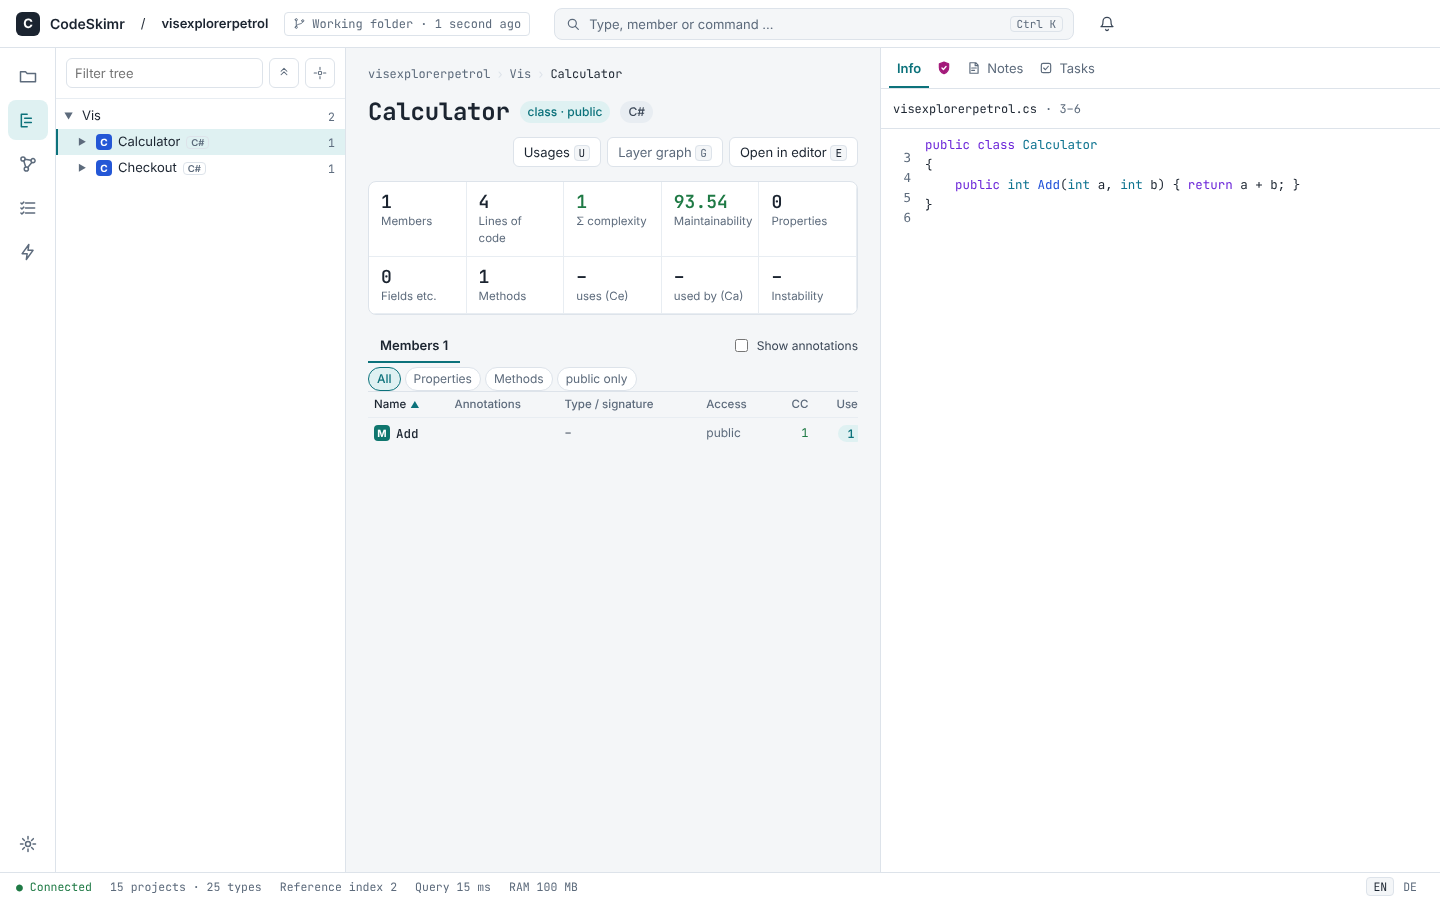
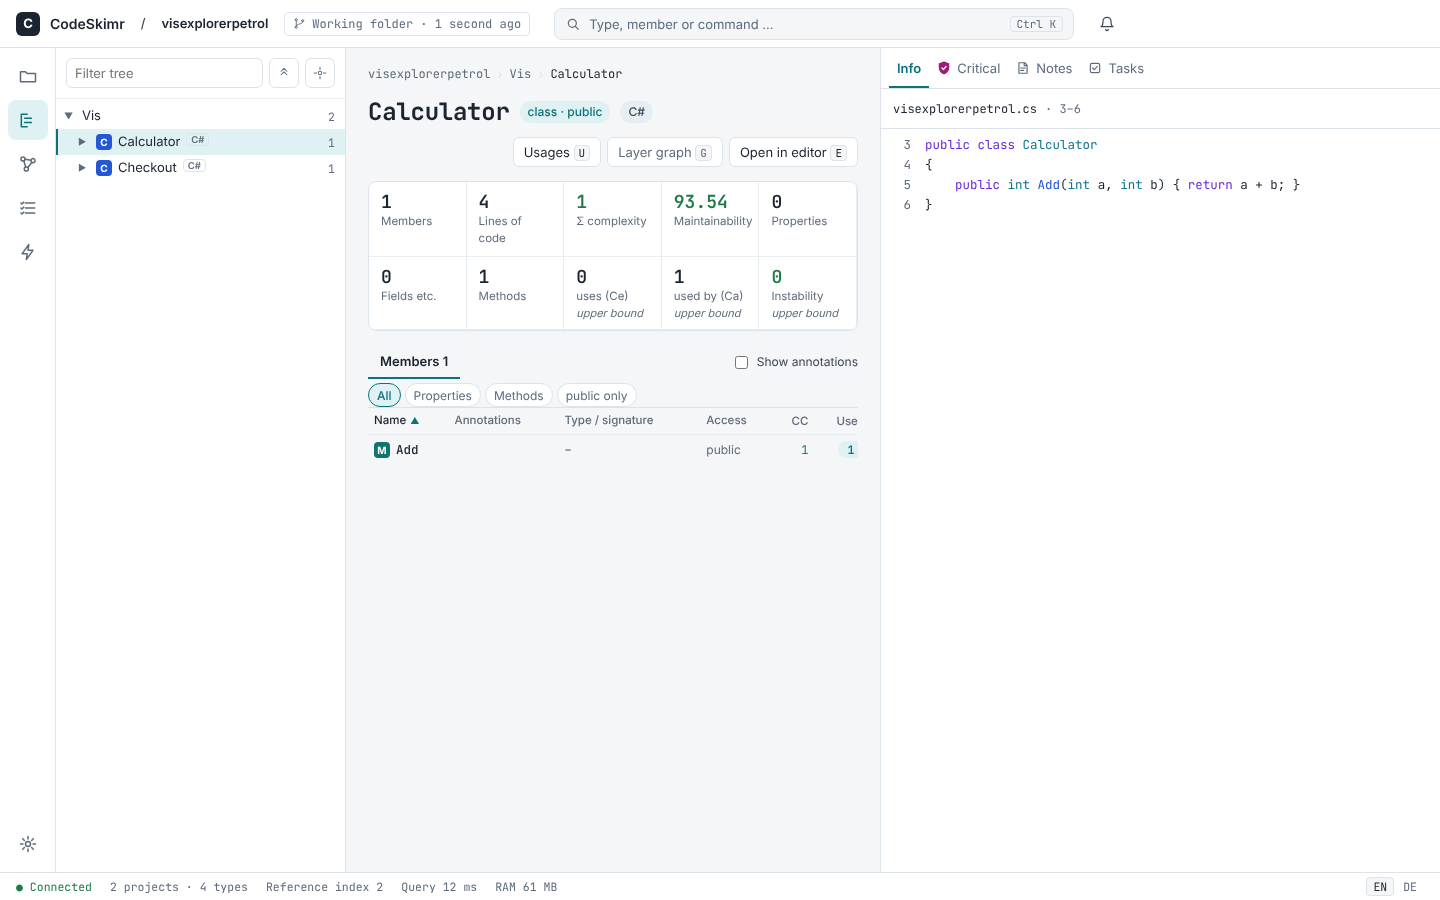
feat: coupling tiles say upper bound until level 2 checked the language (#582)
## Was ändert sich und warum?

Closes #573. ADR 0037 ist angenommen: Die Kopplungswerte zählen jeden
Verweis, auch die nur „wahrscheinlichen“ von Stufe 1 (bei CodeSkimr
selbst 89 %). Solange Stufe 2 die Sprache eines Typs nicht geprüft hat,
ist der Wert deshalb eine Obergrenze.

Im Explorer tragen die drei Kacheln „nutzt (Ce)“, „genutzt von (Ca)“ und
„Instabilität“ jetzt den Hinweis „Obergrenze“ (englisch „upper bound“)
unter der Beschriftung, und der Tooltip erklärt den Grund. Der Hinweis
verschwindet, wenn der letzte Scan die Sprache des Typs auf Stufe 2
geprüft hat (Ergebnis „checked“). Die Zahl selbst ändert sich nicht. Bis
die Projektliste gelesen ist, steht kein Hinweis da, damit nichts
flackert.

## So probierst du es aus

Ein Projekt nur auf Stufe 1 scannen, im Explorer einen Typ öffnen: Die
drei Kacheln der zweiten Reihe zeigen „Obergrenze“. Nach einem Scan mit
bestätigter Stufe 2 für diese Sprache ist der Hinweis weg.

## Screenshots (bei UI-Änderungen, mit Mock-Vergleich)

Neu erzeugt in allen drei Themes, der Vergleich mit dem Mock (`Explorer
(2)`) läuft in allen dreien grün:
`docs/screenshots/visual/explorer-hell.png`, `explorer-petrol.png`,
`explorer-dunkel.png`. Abweichung vom Mock: Die zweite Kachelreihe ist
durch die Hinweiszeile etwas höher; das ist gewollt (ADR 0037).

## Neue Fehlercodes

Keine.

## Neue Abhängigkeiten (mit einem Satz Begründung)

Keine.

## Benchmark-Delta

Keins betroffen (nur Frontend, keine neue Abfrage: der Hinweis liest
[…]

diff --git a/web/src/features/explorer/metrics.ts b/web/src/features/explorer/metrics.ts
@@ -1,5 +1,6 @@
 import { t } from "../../shared/i18n/i18n";
-import { MISSING, TILE_SOURCE, TILES } from "./consts";
+import { I18N_KEYS } from "../../shared/i18n/keys";
+import { BOUND_TILES, MISSING, TILE_SOURCE, TILES } from "./consts";
 import { metricValue } from "./format";
 import type { SymbolInfo, Thresholds } from "./types";
 
@@ -11,6 +12,9 @@ export interface Tile {
   value: string;
   /** `good`, `medium` or `poor` for metrics that have thresholds. */
   rating: string | null;
+  /** A short note under the label, "upper bound" for a coupling count that level 2 has not
+   * confirmed (ADR 0037); `null` for a tile without a note. */
+  hint: string | null;
 }
 
 const LIMITED: readonly string[] = ["cc", "mi", "instability"];
@@ -49,8 +53,14 @@ function kindCount(info: SymbolInfo, kinds: readonly string[]): number {
 }
 
 /** The ten tiles of a symbol (blueprint B.2): member count, the stored metrics and the counts of
- * the member kinds. A metric the scan did not measure has no value. */
-export function tilesOf(info: SymbolInfo, thresholds: Thresholds | null, language: string): Tile[] {
+ * the member kinds. A metric the scan did not measure has no value. With `upperBound` the coupling
+ * tiles carry the note "upper bound" (ADR 0037). */
+export function tilesOf(
+  info: SymbolInfo,
+  thresholds: Thresholds | null,
+  language: string,
+  upperBound = false,
+): Tile[] {
   return TILES.map((tile) => {
     const stored = info.metrics.find((row) => row.kind === tile.id);
     let value: number | undefined = stored?.value;
@@ -59,12 +69,15 @@ export function tilesOf(info: SymbolInfo, thresholds: Thresholds | null, languag
     } else if (tile.source === TILE_SOURCE.kinds) {
       value = kindCount(info, tile.kinds);
     }
+    const bound = upperBound && BOUND_TILES.includes(tile.id);
+    const tip = tipFor(tile.id, tile.tip, thresholds);
     return {
       id: tile.id,
       label: t(tile.label),
-      tip: tipFor(tile.id, tile.tip, thresholds),
+      tip: bound ? `${tip} ${t(I18N_KEYS.EXPLORER_METRIC_BOUND_TIP)}` : tip,
       value: metricValue(value, language),
       rating: stored?.rating ?? null,
+      hint: bound ? t(I18N_KEYS.EXPLORER_METRIC_BOUND) : null,
     };
   });
 }

diff --git a/web/src/features/explorer/ExplorerScreen.test.tsx b/web/src/features/explorer/ExplorerScreen.test.tsx
@@ -6,6 +6,8 @@ import { clearUsages } from "../usages/usages";
 import { setLanguage } from "../../shared/i18n/i18n";
 import { openProject } from "../../shared/project/active";
 import { answer, fetchMock, serve, useServerSession } from "../../tests/commands";
+import { projectRow } from "../../tests/projectRow";
+import { refreshProjects } from "../projects/projects";
 import { openOrder, ORDER, OUTLINE } from "../../tests/explorer";
 import { currentMember, forgetExplorer, setMemberSort, treeScroll } from "./explorer";
 import { INITIAL_SORT } from "./memberSort";
@@ -39,6 +41,41 @@ describe("ExplorerScreen", () => {
     expect(await screen.findByRole("heading", { name: "Order" })).toBeTruthy();
     expect(within(screen.getByRole("tree")).getByTitle("C#")).toBeTruthy();
     expect(screen.getAllByText("C#").length).toBeGreaterThan(1);
+  });
+
+  it("marks the coupling tiles as an upper bound until level 2 confirmed the language", async () => {
+    openProject(1);
+    serve({
+      "explorer.outline": () => answer(OUTLINE),
+      "explorer.symbol": () => answer(ORDER),
+      "projects.list": () => answer([projectRow({ id: 1 })]),
+    });
+    await refreshProjects();
+    render(() => <ExplorerScreen />);
+    await openOrder();
+    expect(await screen.findAllByText("upper bound")).toHaveLength(3);
+  });
+
+  it("leaves the coupling tiles without a note where level 2 checked the language", async () => {
+    openProject(1);
+    const report = {
+      last_scan: { at: 1, level: "2" as const, origin: "terminal" as const },
+      level2: {
+        at: 1,
+        origin: "terminal" as const,
+        languages: [{ language: "csharp", outcome: "checked" as const, files: 3, stale: 0 }],
+      },
+    };
+    serve({
+      "explorer.outline": () => answer(OUTLINE),
+      "explorer.symbol": () => answer(ORDER),
+      "projects.list": () => answer([projectRow({ id: 1, report })]),
+    });
+    await refreshProjects();
+    render(() => <ExplorerScreen />);
+    await openOrder();
+    await screen.findByText("Fields etc.");
+    expect(screen.queryByText("upper bound")).toBeNull();
   });
 
   it("shows the structure, opens a type and shows its metrics and members", async () => {

diff --git a/web/src/features/explorer/MetricStrip.tsx b/web/src/features/explorer/MetricStrip.tsx
@@ -1,12 +1,27 @@
+import { onMount } from "solid-js";
 import { currentLanguage } from "../../shared/i18n/i18n";
+import { activeProject } from "../../shared/project/active";
+import { projects, projectsLoaded, refreshProjects } from "../projects/projects";
 import { tilesOf } from "./metrics";
 import { TileGrid } from "./TileGrid";
 import type { SymbolInfo, Thresholds } from "./types";
+import { isUpperBound } from "./upperBound";
 import styles from "./MetricStrip.module.css";
 
 /** The grid of ten metrics of the selected symbol (mock 2); the colour follows the thresholds of
- * the configuration, the number says the same, so colour is not the only carrier. */
+ * the configuration, the number says the same, so colour is not the only carrier. The coupling
+ * tiles say "upper bound" while level 2 has not confirmed the language of the symbol (ADR 0037);
+ * until the project list is read they say nothing. */
 export function MetricStrip(props: { info: SymbolInfo; thresholds: Thresholds | null }) {
-  const tiles = () => tilesOf(props.info, props.thresholds, currentLanguage());
+  onMount(() => {
+    if (!projectsLoaded()) {
+      void refreshProjects();
+    }
+  });
+  const upperBound = () => {
+    const row = projects().find((entry) => entry.id === activeProject());
+    return projectsLoaded() && isUpperBound(row?.report, props.info.language);
+  };
+  const tiles = () => tilesOf(props.info, props.thresholds, currentLanguage(), upperBound());
   return <TileGrid tiles={tiles()} classes={styles} />;
 }

diff --git a/web/src/features/explorer/upperBound.test.ts b/web/src/features/explorer/upperBound.test.ts
@@ -1,0 +1,28 @@
+import { describe, expect, it } from "vitest";
+import type { ScanReport } from "../../shared/project/report";
+import { isUpperBound } from "./upperBound";
+
+function report(outcome: "checked" | "skipped" | "failed"): ScanReport {
+  return {
+    last_scan: { at: 1, level: "2", origin: "terminal" },
+    level2: { at: 1, origin: "terminal", languages: [{ language: "rust", outcome }] },
+  };
+}
+
+describe("isUpperBound", () => {
+  it("is false only where level 2 checked the language", () => {
+    expect(isUpperBound(report("checked"), "rust")).toBe(false);
+  });
+
+  it("is true for a skipped or failed language, another language and a missing second pass", () => {
+    expect(isUpperBound(report("skipped"), "rust")).toBe(true);
+    expect(isUpperBound(report("failed"), "rust")).toBe(true);
+    expect(isUpperBound(report("checked"), "python")).toBe(true);
+    expect(isUpperBound({ ...report("checked"), level2: null }, "rust")).toBe(true);
+  });
+
+  it("is true without a stored report", () => {
+    expect(isUpperBound(null, "rust")).toBe(true);
+    expect(isUpperBound(undefined, "rust")).toBe(true);
+  });
+});

diff --git a/web/src/features/explorer/metrics.test.ts b/web/src/features/explorer/metrics.test.ts
@@ -51,6 +51,25 @@ describe("tilesOf", () => {
   });
 });
 
+describe("tilesOf with an upper bound", () => {
+  it("puts the note on the three coupling tiles and on no other", () => {
+    const noted = tilesOf(INFO, LIMITS, "en", true).filter((tile) => tile.hint !== null);
+    expect(noted.map((tile) => tile.id)).toEqual(["ce", "ca", "instability"]);
+    expect(noted[0]?.hint).toBe("upper bound");
+    expect(noted[0]?.tip).toMatch(/upper bound/);
+  });
+
+  it("says nothing when level 2 confirmed the language", () => {
+    expect(tilesOf(INFO, LIMITS, "en").every((tile) => tile.hint === null)).toBe(true);
+  });
+
+  it("speaks German in the German interface", () => {
+    setLanguage("de");
+    const ce = tilesOf(INFO, LIMITS, "de", true).find((tile) => tile.id === "ce");
+    expect(ce?.hint).toBe("Obergrenze");
+  });
+});
+
 describe("tipFor", () => {
   it("names the limits only when the thresholds are known", () => {
     expect(tipFor("cc", I18N_KEYS.EXPLORER_METRIC_CC_TIP, LIMITS)).toMatch(/5.*10/);

diff --git a/web/src/features/explorer/upperBound.ts b/web/src/features/explorer/upperBound.ts
@@ -1,0 +1,9 @@
+import { OUTCOME, type ScanReport } from "../../shared/project/report";
+
+/** Whether the coupling counts of a symbol are only an upper bound (ADR 0037): level 1 counts
+ * every reference, also the probable ones, so a count is firm only where level 2 checked the
+ * language of the symbol in the newest scan. A project without a stored report is not confirmed. */
+export function isUpperBound(report: ScanReport | null | undefined, language: string): boolean {
+  const line = report?.level2?.languages.find((entry) => entry.language === language);
+  return line?.outcome !== OUTCOME.checked;
+}

diff --git a/web/src/features/explorer/TileGrid.tsx b/web/src/features/explorer/TileGrid.tsx
@@ -1,4 +1,4 @@
-import { For } from "solid-js";
+import { For, Show } from "solid-js";
 import { cx } from "../../shared/ui/cx";
 import type { Tile } from "./metrics";
 import { ratingClass } from "./ratingClass";
@@ -18,6 +18,9 @@ export function TileGrid(props: { tiles: Tile[]; classes: TileClasses }) {
               {tile.value}
             </div>
             <div class={props.classes.label}>{tile.label}</div>
+            <Show when={tile.hint}>
+              <div class={props.classes.hint}>{tile.hint}</div>
+            </Show>
           </div>
         )}
       </For>

diff --git a/web/src/shared/i18n/keys.ts b/web/src/shared/i18n/keys.ts
@@ -413,6 +413,8 @@ export const I18N_KEYS = {
   EXPLORER_METRIC_CA_TIP: "explorer-metric-ca-tip",
   EXPLORER_METRIC_INSTABILITY: "explorer-metric-instability",
   EXPLORER_METRIC_INSTABILITY_TIP: "explorer-metric-instability-tip",
+  EXPLORER_METRIC_BOUND: "explorer-metric-bound",
+  EXPLORER_METRIC_BOUND_TIP: "explorer-metric-bound-tip",
   EXPLORER_GROUP_TYPES: "explorer-group-types",
   EXPLORER_GROUP_ALIASES: "explorer-group-aliases",
   EXPLORER_LOADING: "explorer-loading",

diff --git a/web/src/features/explorer/consts.ts b/web/src/features/explorer/consts.ts
@@ -245,6 +245,10 @@ export const TILES = [
   },
 ] as const;
 
+/** The tiles of the coupling counts (ADR 0037); while level 2 has not confirmed the language of the
+ * symbol they say "upper bound". */
+export const BOUND_TILES: readonly string[] = ["ce", "ca", "instability"];
+
 /** Decimals of a metric value with a fraction. */
 export const METRIC_DECIMALS = 2;
 /** Shown for a missing value. */

diff --git a/web/src/features/explorer/MetricStrip.module.css b/web/src/features/explorer/MetricStrip.module.css
@@ -24,6 +24,12 @@
     color: var(--muted);
 }
 
+.hint {
+    font-size: 11px;
+    color: var(--muted);
+    font-style: italic;
+}
+
 .good {
     color: var(--good);
 }

diff --git a/docs/ui.md b/docs/ui.md
@@ -47,7 +47,7 @@ The screen shows the active project (`shared/project/active.ts`) with two comman
 - Keys: Up and Down move the cursor, Right opens (or goes to the first child), Left closes (or goes to the parent), Home and End jump, Enter and Space select or toggle, `Ctrl+Left` closes everything, `Ctrl+.` shows the selection.
 - Tree: the row "(no layer)" only shows when the project has layers and some types belong to none; a project without any layer shows its namespaces at the top.
 - Language (issue "language of an object"): `explorer.outline` gives every type a `language` (id of the language pack of the declaring file) and `explorer.symbol` gives the same for the shown symbol. The tree shows a short name after every type row (`LANGUAGE_SHORT` in `web/src/features/explorer/consts.ts`, the tooltip has the full name from `languageName`), the details show the language name as a second label next to the kind. It is always shown, also in a project with one language. A nested type takes the language of the type that holds it.
-- Details: breadcrumb, name with kind and visibility, documentation, ten metric tiles, member table with the chips All, Properties, Methods and "public only". The colour of a metric and of the complexity of a member comes from the thresholds in `config/default.toml` (`metrics.*`), which `explorer.outline` delivers; the number is always shown too, and the tooltip of a column or tile names the limits. A failure of the symbol keeps the tree.
+- Details: breadcrumb, name with kind and visibility, documentation, ten metric tiles, member table with the chips All, Properties, Methods and "public only". The colour of a metric and of the complexity of a member comes from the thresholds in `config/default.toml` (`metrics.*`), which `explorer.outline` delivers; the number is always shown too, and the tooltip of a column or tile names the limits. The tiles of the coupling counts (`uses (Ce)`, `used by (Ca)`, instability) carry the note "upper bound" ("Obergrenze") while the newest scan did not check the language of the symbol with level 2 (ADR 0037): level 1 counts every reference, also the probable ones. The note comes from the `report` of `projects.list` and is absent until that list is read. A failure of the symbol keeps the tree.
 - Source column (WP-45b): the right column shows file, position and code of the selected member, or of the selected type if no member is picked. `explorer.source` reads the lines of the declaration from the project folder as it is now (not from the scan), so a file edited since the scan can show shifted lines; the next scan fixes that. Only a project that is a folder on this machine has source; a Git project says so. A file that is gone gives the registered failure `SRC-201`, a file over 4 MiB `SRC-501`, a declaration over 400 lines is cut with a note. The path is resolved against the project folder and anything that lies outside it, also through a link, is refused. Line numbers and code are two plain `pre` blocks, so a long declaration costs two DOM nodes.
 - Names in the code (issues #158, #171): `explorer.source` returns `spans`, the places where a symbol is named (one-line references of the scan). The code is still one `pre`, but each name is a small element with `data-symbol`; `Alt+click` on it opens the usages of that symbol (`showUsages`, the `title` says so). A plain click does nothing, and text that is not a reference stays plain. `Alt+Down` and `Alt+Up` select the next and previous member of the shown type in the order of the member table (nested types are skipped, the ends stop); with no member selected they start at the first or the last. A file edited since the scan can shift the places; the command leaves out those that do not fit their line.
 - Syntax colours (ADR 0064): `explorer.source` also returns `tokens`, runs `{ line, start, end, class }` that the server cuts with the `highlights.scm` of the language pack. `segments()` merges them with the names; a coloured piece is a `span` with the class of its colour (`--syn-*` tokens of the three themes), a name inside a coloured run keeps `data-symbol` and the colour. A language without `highlights.scm` stays plain. The lines are parsed as the excerpt of the declaration, so a name that needs the surrounding file may be coloured as plain.
